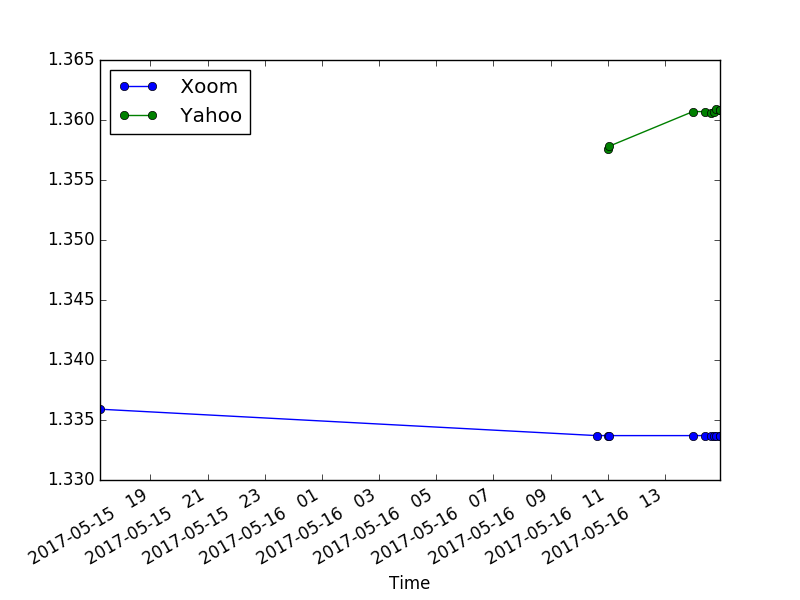
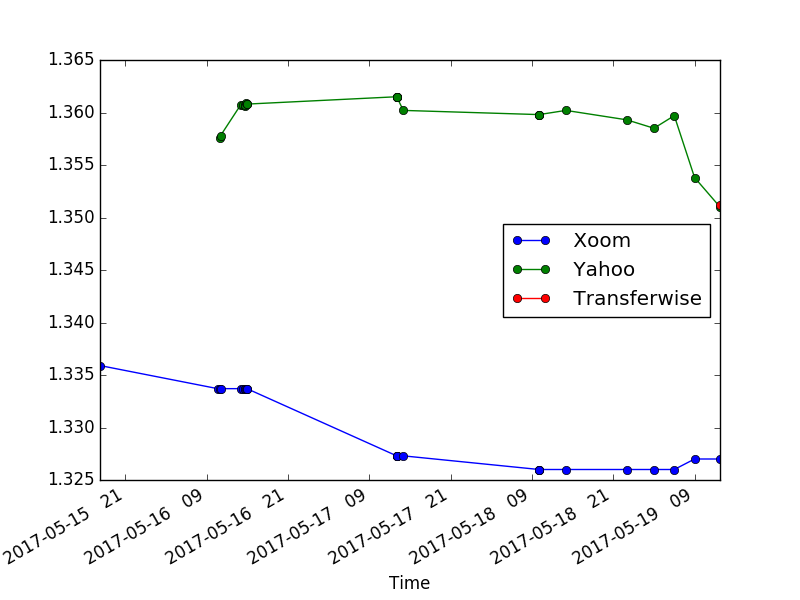
Include transferwise.com in tracking

diff --git a/check_web.py b/check_web.py
@@ -10,42 +10,67 @@ import matplotlib.dates as mdates
 
 TESTING = False # use for testing and do not retrieve webpages
 
-site_dir = {"CLP" : "https://www.xoom.com/chile/fees-fx",
+xoom_url = {"CLP" : "https://www.xoom.com/chile/fees-fx",
 			"CAD" : "https://www.xoom.com/canada/fees-fx"}
 			
 yahoo_url = "http://download.finance.yahoo.com/d/quotes.csv?e=.csv&f=sl1d1t1&s=USD%s=X"
 
+transferwise_url = 'https://transferwise.com/us/currency-converter/usd-to-%s-rate?amount=1'
+
 opener = urllib2.build_opener()
-opener.addheaders = [('User-agent', 'Mozilla/5.0')]
+opener.addheaders = [('User-agent', 'Mozilla/5.0'),('Accept', 'text/html,application/xhtml+xml,application/xml;q=0.9,*/*;q=0.8')]
+hdr = {'User-Agent': 'Mozilla/5.0 (X11; Linux x86_64) AppleWebKit/537.11 (KHTML, like Gecko) Chrome/23.0.1271.64 Safari/537.11',
+      'Accept': 'text/html,application/xhtml+xml,application/xml;q=0.9,*/*;q=0.8',
+      'Accept-Charset': 'ISO-8859-1,utf-8;q=0.7,*;q=0.3',
+      'Accept-Encoding': 'none',
+      'Accept-Language': 'en-US,en;q=0.8',
+      'Connection': 'keep-alive'}
+
 
 
 sample = """TEXTEXTEXTE FDAEFADFFEAF DFAFDA<span>1 USD = 333.3333 CLP</span>DFAEGDAEFAFDADAEFA 
-	GDAA<span>1 USD = 3.3333 CAD</span> fdafjeofaldkfjewoifajdlfkjads"""
+	GDAA<span>1 USD = 3.3333 CAD</span> fdafjeofaldkfjewoifajdlfkjadstt =<td data-rate-times-amount="CLP" value="1">333.3333 CLP</td>
+	dfdjfljdfkltt = '<td data-rate-times-amount="CAD" value="1">3.3333 CAD</td>'fdkfaodjfadjfadls
+	dfjldfjaldfjaldfjadlfjadlfeoiei
+	"""
 
+#ts_text = {}
 
-for cur,url in site_dir.iteritems():
+for cur,url in xoom_url.iteritems():
 
 	TS = datetime.datetime.now().strftime('%Y-%m-%d %H:%M:%S')
 	
+	#Read Xoom.com
 	if TESTING:
 		page = sample
 	else:
 		raw = opener.open(url)
 		page = raw.read()
-
+		
 	pat = re.compile("(?!<span>1 USD = )\d+.\d+(?= %s</span>)"%cur)
 	
 	l = pat.findall(page)
 	
 	rate = float(l[0])
 	print(cur + '\n' + str(rate) + " Xoom")
+
+	#Read Transferwise.com
+	raw = opener.open(transferwise_url%cur)
+	page = raw.read()
+	
+	pat = re.compile('(?!<td data-rate-times-amount="%s" value="1">)\d*.\d*(?= %s</td>)'%(cur,cur))
+	l = pat.findall(page)
+	
+	twrate = float(l[0])
+	print(str(twrate) + " Transferwise")
+
 	
 	yrate = pd.read_csv(yahoo_url%cur,header = None)
 	yrate = float(yrate[1])
 	print (str(yrate) + " Yahoo")
 	
 	f = open(cur + '.txt' , 'a')
-	f.write(TS + ',' + str(rate) + ',' + str(yrate) + '\n')
+	f.write(TS + ',' + str(rate) + ',' + str(yrate) + ',' + str(twrate) + '\n')
 	f.close()
 	
 	#Update plots
@@ -57,9 +82,13 @@ for cur,url in site_dir.iteritems():
 	
 	time.sleep(1) #wait to avoid raising flags, might not be necesary
 	
+print('bye')
+
+# req = urllib2.Request('https://transferwise.com/us/currency-converter/usd-to-clp-rate?amount=1', headers=hdr)
+
+# page = urllib2.urlopen(req)
+
+# content = page.read()
+# print(content)
 	
-	
-	
-	
-	
-	
+

diff --git a/readme.md b/readme.md
@@ -1,3 +1,3 @@
-This small project reads exchange rates for CLP and CAD into USD from Yahoo finance and
-Xoom. It saves the timestamp and the exchange rates into separate csv files. It reads
+This small project reads exchange rates for CLP and CAD into USD from Xoom, Yahoo finance and
+Transferwise. It saves the timestamp and the exchange rates into separate csv files. It reads
 the logs and create plots for easy reviewing the rates.
